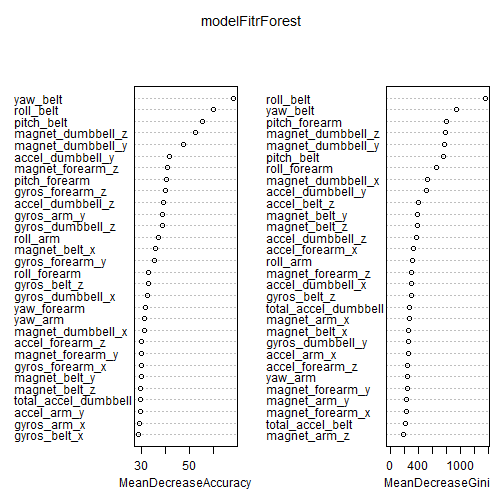
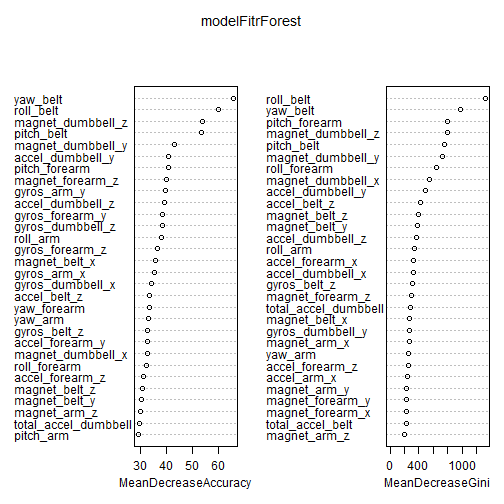
update master with minor fixes

diff --git a/index.html b/index.html
@@ -319,14 +319,14 @@ modelFitrForest
 ##                      Number of trees: 500
 ## No. of variables tried at each split: 7
 ## 
-##         OOB estimate of  error rate: 0.23%
+##         OOB estimate of  error rate: 0.22%
 ## Confusion matrix:
 ##      A    B    C    D    E  class.error
-## A 5578    1    0    0    1 0.0003584229
+## A 5577    3    0    0    0 0.0005376344
 ## B    7 3787    3    0    0 0.0026336582
-## C    0   10 3411    1    0 0.0032144944
-## D    0    0   19 3196    1 0.0062189055
-## E    0    0    0    2 3605 0.0005544774
+## C    0    7 3413    2    0 0.0026300409
+## D    0    0   17 3198    1 0.0055970149
+## E    0    0    0    4 3603 0.0011089548
 </code></pre>
 
 <p>From it, I got the features variance of importance which I&#39;ve plotted.</p>
@@ -337,16 +337,13 @@ modelFitrForestVarImpObj &lt;- varImp(modelFitrForest)
 varImpPlot(modelFitrForest, sort=TRUE)
 </code></pre>
 
[2 lines of base64/hex data omitted]
 
 <p>The figure above shows which measures are more important to predict the test case classe measure.
 Using that model parameters, the predicted results were obtained next.</p>
 
 <pre><code class="r">resultrForest &lt;- predict(modelFitrForest, testing)
 </code></pre>
-
-<p>#INCLUIR E DEPOIS APAGAR: 
-#Describe what they expect the out of sample error to be and estimate the error appropriately with cross-validation?</p>
 
 <h2>4. Result submission</h2>
 
